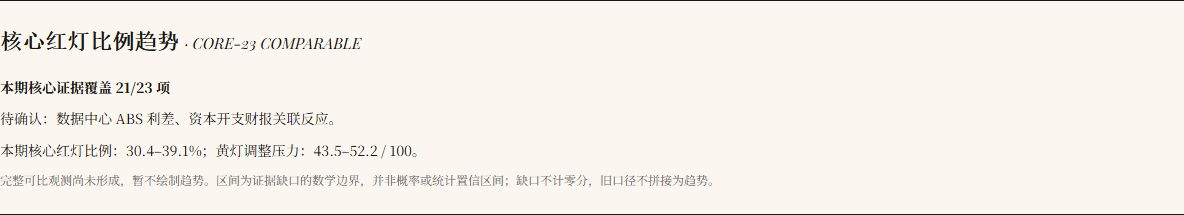
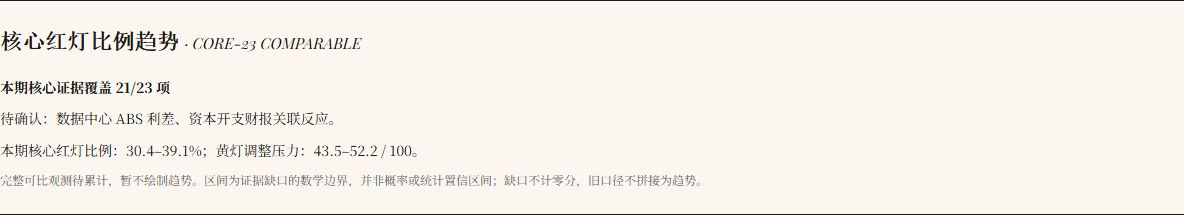
fix: retain comparable-history empty-state notice

Changed region(s): [[0.0625, 0.8093, 0.5938, 0.8651]]

diff --git a/bubble-watch.html b/bubble-watch.html
@@ -910,7 +910,7 @@ function trendEmptyHtml(data) {
   return `<p class="trend-gap"><b>${coverage}</b></p>
     <p class="trend-gap">${escapeHtml(gaps)}</p>
     <p class="trend-gap">本期核心红灯比例：${value(summary.red_pct, summary.primary_score_range_pct, '%')}；黄灯调整压力：${value(summary.weighted_risk_score, summary.weighted_risk_score_range, ' / 100')}。</p>
-    <p class="trend-gap trend-gap-note">完整可比观测尚未形成，暂不绘制趋势。区间为证据缺口的数学边界，并非概率或统计置信区间；缺口不计零分，旧口径不拼接为趋势。</p>`;
+    <p class="trend-gap trend-gap-note">完整可比观测待累计，暂不绘制趋势。区间为证据缺口的数学边界，并非概率或统计置信区间；缺口不计零分，旧口径不拼接为趋势。</p>`;
 }
 
 function drawTrend(data) {

diff --git a/docs/PROJECT_BACKLOG.md b/docs/PROJECT_BACKLOG.md
@@ -5,7 +5,7 @@
 - **Acceptance baseline**：owner 要求收起核心趋势空状态的大面积留白，显示实际 21/23 项覆盖、缺失项与当前风险区间；不放宽证据或计分门槛，审核通过后上线并核验两站。沿用本聊天 owner 指定 Codex 代审/发布授权，不伪称独立人工 review，不触发付费或生产数据刷新。
 - **最后基线 / 改动**：复用干净 World Order worktree，新分支 `codex/bubble-trend-empty-state-20261103` 基于 latest main `a06ca944`。只调整 `bubble-watch.html` 空状态：取消固定高度、隐藏空图例；按已发布核心清单与灯色统计覆盖，读取原发布区间，不重算分数；缺失/无效值仍待确认。保留完整曲线及响应式切换，恢复图表时重新建立 tooltip。本 PR 符合 DESIGN.md 的所有规则（§2/3/4.4/6/9）；纸色、字体、标题及 section 顺序保持，空态正文使用现有 serif 与 muted token。
 - **验证 / 审核**：新增 5 项真实浏览器回归通过，覆盖 1440/390、核心缺卡不缩分母、影子不入覆盖、名称转义、缺失/无效区间不记零、真实零与空态/曲线/resize/hover 切换。相同生产 JSON before/after 四图与计算样式见 [验收证据](review-evidence/bubble-trend-empty-20261103/README.md)；桌面内容区 220→115px、手机 220→184px，全页无横溢或脚本异常。完整 `check:changed`（含 `check:all`）exit0；最终差异 Codex 自审确认符合方案，checker/assertions、data/config/scoring/workflows 零修改，无新增 skip/ignore。远端 CI/合并与线上验收以实际回执为准。
-- **下一步 / 限制**：必要检查与审核通过后独立 PR/CI/合并，跟进 Pages/EdgeOne 并核对两站桌面/手机实际空态、JSON 与已恢复周评不变。该补丁不补证据、不伪造历史点、不改源资格/计分；仅 bubble 单文件页变化，不触发首页模块 asset bump。
+- **下一步 / 限制**：PR #497 首版 CI 的 audit/coverage/check:all 通过；浏览器 80 pass/6 fail 均因漏保留原烟测要求的“完整可比观测待累计”提示。r2 仅恢复此句式并更新 after 证据，不改测试断言；本地扩大浏览器复验 29/29、修订后完整 `check:changed`（含 `check:all`）均 exit0。后续 CI/合并/上线以实际回执为准。跟进 Pages/EdgeOne 并核对两站桌面/手机实际空态、JSON 与已恢复周评不变。该补丁不补证据、不伪造历史点、不改源资格/计分；仅 bubble 单文件页变化，不触发首页模块 asset bump。
 
 ### 2026-11-03 World Order 索引时间与完整日缓存恢复
 
